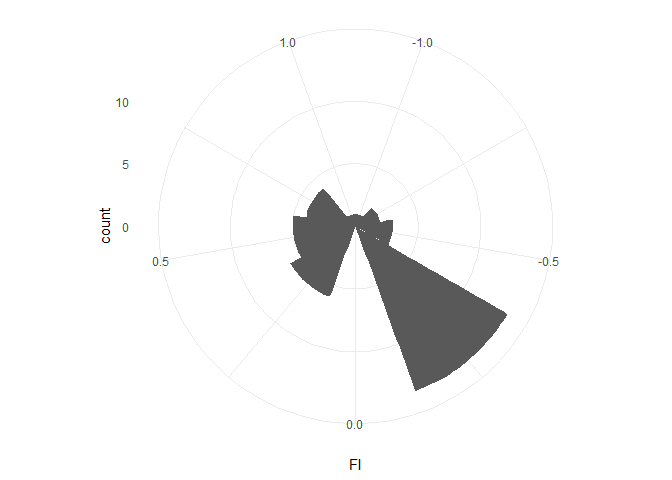
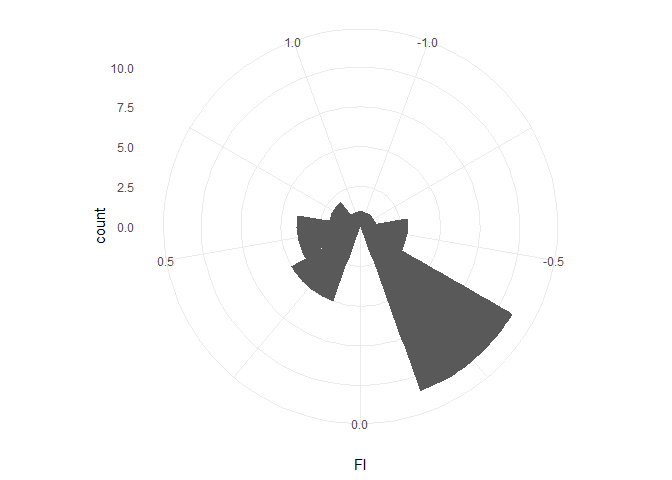
update readme: remove at colony "trips" from fidelity index example.  Also reflow.  closes #10

diff --git a/README.md b/README.md
@@ -121,10 +121,14 @@ head(tracks_w_trips)
 
 ``` r
 # Plot a bird to check
-ggplot(tracks_w_trips,aes(Longitude,Latitude,col=factor(TripNum)))+
+ggplot(tracks_w_trips,
+       aes(Longitude,
+           Latitude,
+           col=factor(TripNum)))+
   geom_path(size=.7)+
   geom_point(data=tracks_w_trips[tracks_w_trips$ColonyMovement%in%c("Out","In"),])+
-  theme_classic(base_size = 16)+labs(color="TripNum")
+  theme_classic(base_size = 16)+
+  labs(color="TripNum")
 ```
 
 ![](README_files/figure-gfm/make%20trips-1.png)<!-- -->
@@ -166,20 +170,27 @@ is dictated by `nPointsToSmooth`\*interpoint duration.
 
 ``` r
 tracks_w_trips$INOut<-InOutPoints(tracks=tracks_w_trips,
-                          CaptureID="CaptureID",
-                          DateTime="DateTime",
-                          TripID="TripNum",
-                          dist2colony="Dist2Colony",lag=3,
-                          nPointsToSmooth =10,minDist2Col = 10,
-                          Lon = "Longitude",Lat="Latitude",
-                          Plot = T,pdfName = "inout_plots.pdf")
+                                  CaptureID="CaptureID",
+                                  DateTime="DateTime",
+                                  TripID="TripNum",
+                                  dist2colony="Dist2Colony",
+                                  lag=3,
+                                  nPointsToSmooth =10,
+                                  minDist2Col = 10,
+                                  Lon = "Longitude",
+                                  Lat="Latitude",
+                                  Plot = T,
+                                  pdfName = "inout_plots.pdf")
 
 ggplot(tracks_w_trips[tracks_w_trips$TripNum%in%c(5,7),],
-       aes(Longitude,Latitude,col=factor(TripNum)))+
+       aes(Longitude,
+           Latitude,
+           col=factor(TripNum)))+
   geom_path(aes(lty=INOut),size=1)+
   scale_linetype_manual(values = c(1,2,3))+
   facet_wrap(~TripNum)+
-  theme_classic(base_size = 16)+labs(color="TripNum")
+  theme_classic(base_size = 16)+
+  labs(color="TripNum")
 ```
 
 ![](README_files/figure-gfm/trip-spliting-1.png)<!-- -->
@@ -212,7 +223,11 @@ Shaffer et al. 2017. Movement Ecology 5:27
 # add a colony site name and join on inf0 about that site.  this is set up for
 # having multiple capture sites in a single dataframe
 tracks_w_trips$site<-"Village"
-capture_sites<-data.frame(site="Village",colony_lon=-169.6760,colony_lat= 56.60329,stringsAsFactors = F)
+
+capture_sites<-data.frame(site="Village",
+                          colony_lon=-169.6760,
+                          colony_lat= 56.60329,
+                          stringsAsFactors = F)
 
 # join on the capture sites and calculate the bearing from each point to the colony
 library(geosphere)
@@ -233,7 +248,17 @@ index per birds with the total N trip combinations used to calculate the
 mean.
 
 ``` r
-fidelity<-trakR::gilmour_fidelity(dat = tracks_w_trips,Longitude = "Longitude",Latitude = "Latitude",animal_id = "CaptureID",trip_id = "TripNum",distance2colony = "Dist2Colony",bear2col = "bear2col")
+# remove "trips" with TripNum==0 because these are actually times when the bird was at the colony
+tracks_with_trips_fidelity<-tracks_w_trips %>% filter(TripNum!=0)
+
+# run fidelity
+fidelity<-trakR::gilmour_fidelity(dat = tracks_with_trips_fidelity,
+                                  Longitude = "Longitude",
+                                  Latitude = "Latitude",
+                                  animal_id = "CaptureID",
+                                  trip_id = "TripNum",
+                                  distance2colony = "Dist2Colony",
+                                  bear2col = "bear2col")
 
 # rose plot of fidelity index per trip combo (this is just a single bird)
 ggplot(fidelity$fidelity_index_trips)+
@@ -251,20 +276,20 @@ fidelity$fidelity_index_animal
     ## # A tibble: 1 x 3
     ##   animal_id      FI FI_samplesize
     ##   <chr>       <dbl>         <int>
-    ## 1 B53       0.00192            36
+    ## 1 B53       -0.0178            28
 
-### attach depth info
+### Attach depth info
 
 ``` r
 tracks_w_trips$depth<-DepthETOPO(tracks = tracks_w_trips,
-              dataLat = "Latitude",
-              dataLon = "Longitude",
-              left = min(tracks_w_trips$Longitude)-1,
-              right= max(tracks_w_trips$Longitude)+1,
-              bottom= min(tracks_w_trips$Latitude)-1,
-              top= max(tracks_w_trips$Latitude)+1,
-              resolution=30,
-              keep=F)
+                                 dataLat = "Latitude",
+                                 dataLon = "Longitude",
+                                 left = min(tracks_w_trips$Longitude)-1,
+                                 right= max(tracks_w_trips$Longitude)+1,
+                                 bottom= min(tracks_w_trips$Latitude)-1,
+                                 top= max(tracks_w_trips$Latitude)+1,
+                                 resolution=30,
+                                 keep=F)
 ```
 
     ## Querying NOAA database ...
@@ -274,8 +299,11 @@ tracks_w_trips$depth<-DepthETOPO(tracks = tracks_w_trips,
     ## Building bathy matrix ...
 
 ``` r
-ggplot(tracks_w_trips %>% filter(TripNum!=0),aes(x=DateTime,y=depth, col=factor(TripNum)))+
-  geom_path()+theme_minimal()
+ggplot(tracks_w_trips %>% 
+         filter(TripNum!=0),
+       aes(x=DateTime,y=depth, col=factor(TripNum)))+
+  geom_path()+
+  theme_minimal()
 ```
 
 ![](README_files/figure-gfm/depth-1.png)<!-- -->
